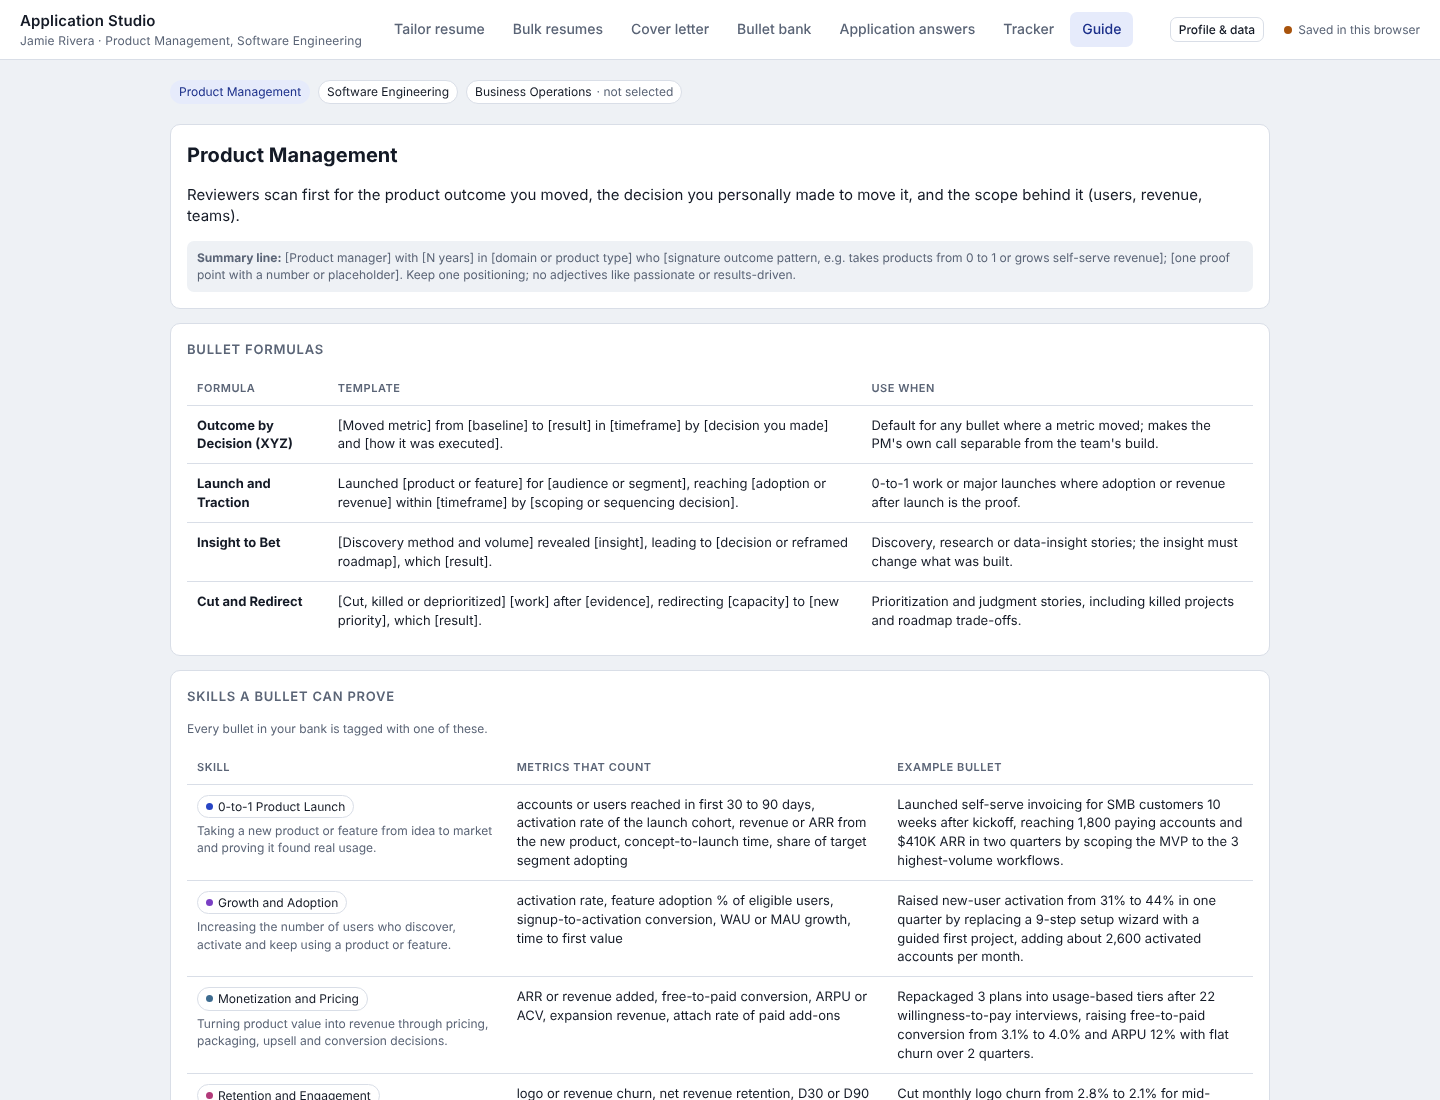
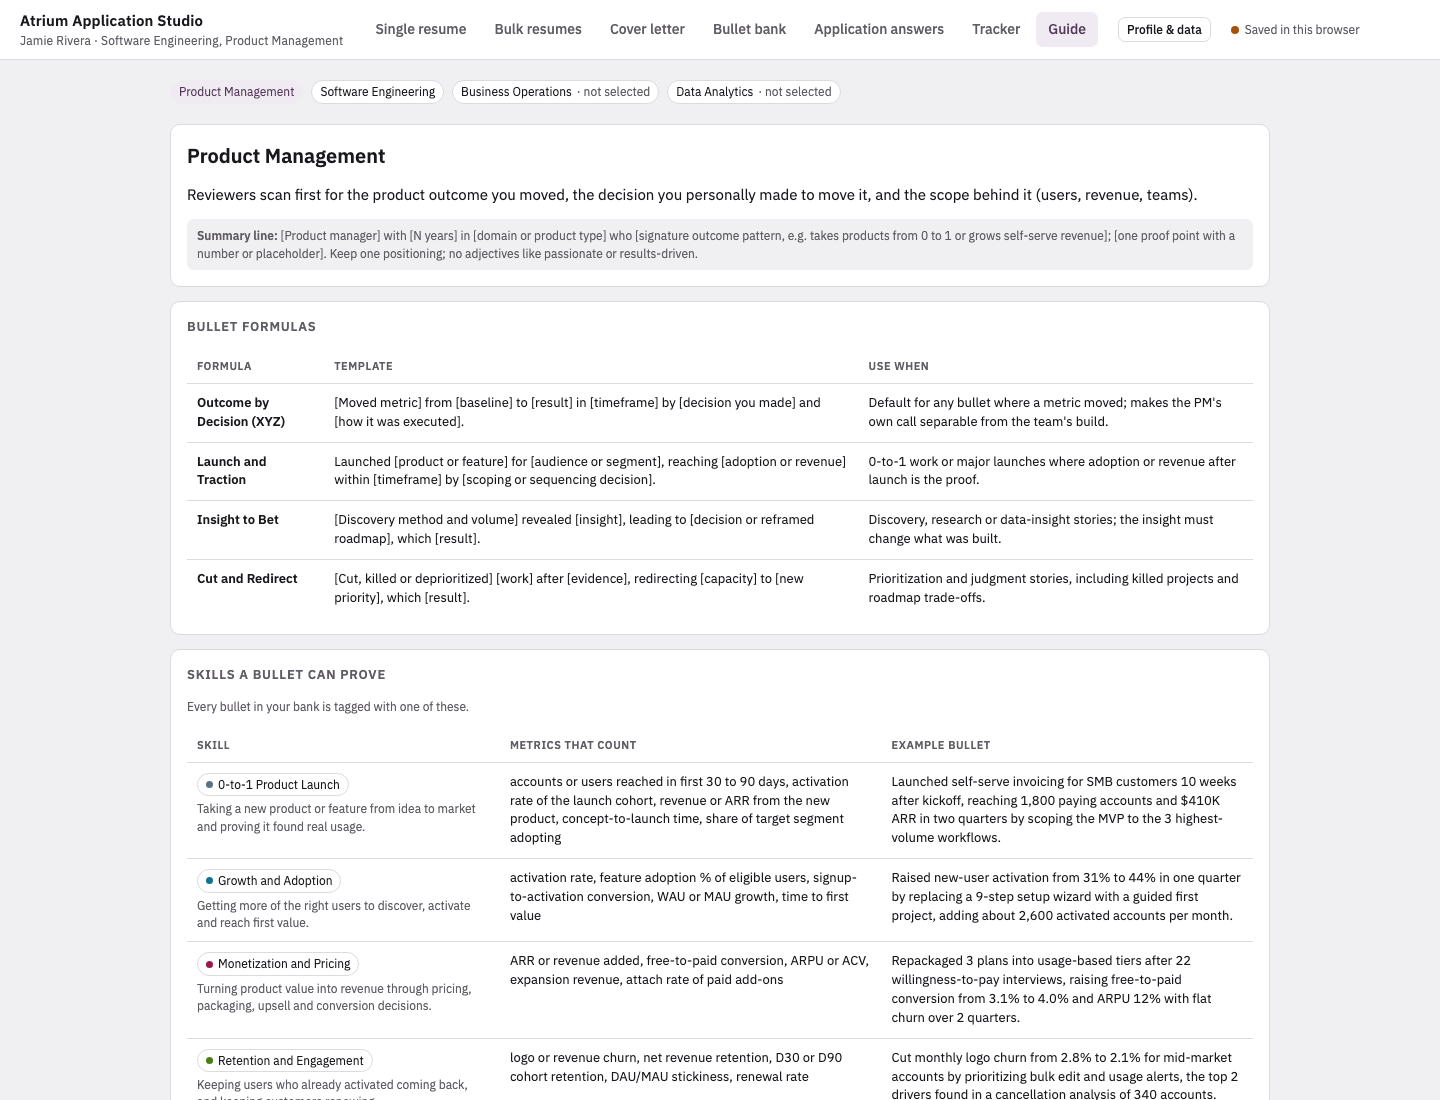
Regenerate the README screenshots from the current build (#21)
The four images still showed the mid-November build: blue palette, "Tailor
resume", and the pre-rename "Application Studio" header. They now show the
app as it is, at the same resolution as before.

They are generated rather than hand-taken: a seed script builds the
fictional Jamie Rivera profile into a throwaway copy of index.html and
headless Chrome captures it, with a negative animation-delay holding the
atrium mid-cycle so the room is furnished. CLAUDE.md records the method.

Changed region(s): [[0.125, 0.1236, 0.875, 1.0], [0.0, 0.0, 0.5625, 0.0927], [0.25, 0.0, 0.9688, 0.0618]]

diff --git a/CLAUDE.md b/CLAUDE.md
@@ -4,7 +4,7 @@
 A single-page app (`index.html`, plain HTML/CSS/JS, no build step) that tailors resumes, cover letters and application answers to each job from one bank of accomplishment bullets. It's a public portfolio project. The owner is a product manager who shows it to recruiters.
 
 ## Hard rule: no personal data in this repo
-The repo is public. Never commit a real person's resume content, phone, email, address, employer details or bullets. Screenshots and examples must use made-up profiles (the current ones use "Jamie Rivera"). The owner keeps a personal copy of the app with his own data on claude.ai. That copy never goes in this repo. Commit with the GitHub no-reply email, not a personal one.
+The repo is public. Never commit a real person's resume content, phone, email, address, employer details or bullets. Screenshots and examples must use made-up profiles (the current ones use "Jamie Rivera"). The screenshots are generated, not hand-taken: a seed script builds that fictional profile into a throwaway copy of `index.html` and headless Chrome captures it (`--headless=new --virtual-time-budget=... --window-size=W,H --screenshot=out.png`, 1440x1100 for the full views, card-sized windows for the two overlay shots, and a negative `animation-delay` on `.scene .it` to hold the atrium mid-cycle). Regenerate them the same way rather than screenshotting a real account. The owner keeps a personal copy of the app with his own data on claude.ai. That copy never goes in this repo. Commit with the GitHub no-reply email, not a personal one.
 
 ## How it runs
 - It's built to run as a Claude artifact on claude.ai. The runtime gives `window.claude.use(name)`, which returns capability objects:

diff --git a/README.md b/README.md
@@ -25,7 +25,7 @@ Job seekers rewrite the same resume dozens of times, and the bullets usually get
 - **Guide.** A field-by-field playbook of what strong resumes look like.
 - **Leave feedback.** A form in the header that files into the artifact's database, readable only by whoever shared the app. Each person can write only their own entry and cannot read anyone else's. It is not anonymous, and the form says so.
 
-![Tailored resume preview](docs/tailor.png)
+![The Single resume tab](docs/tailor.png)
 
 ## Field-specific resume guides
 
